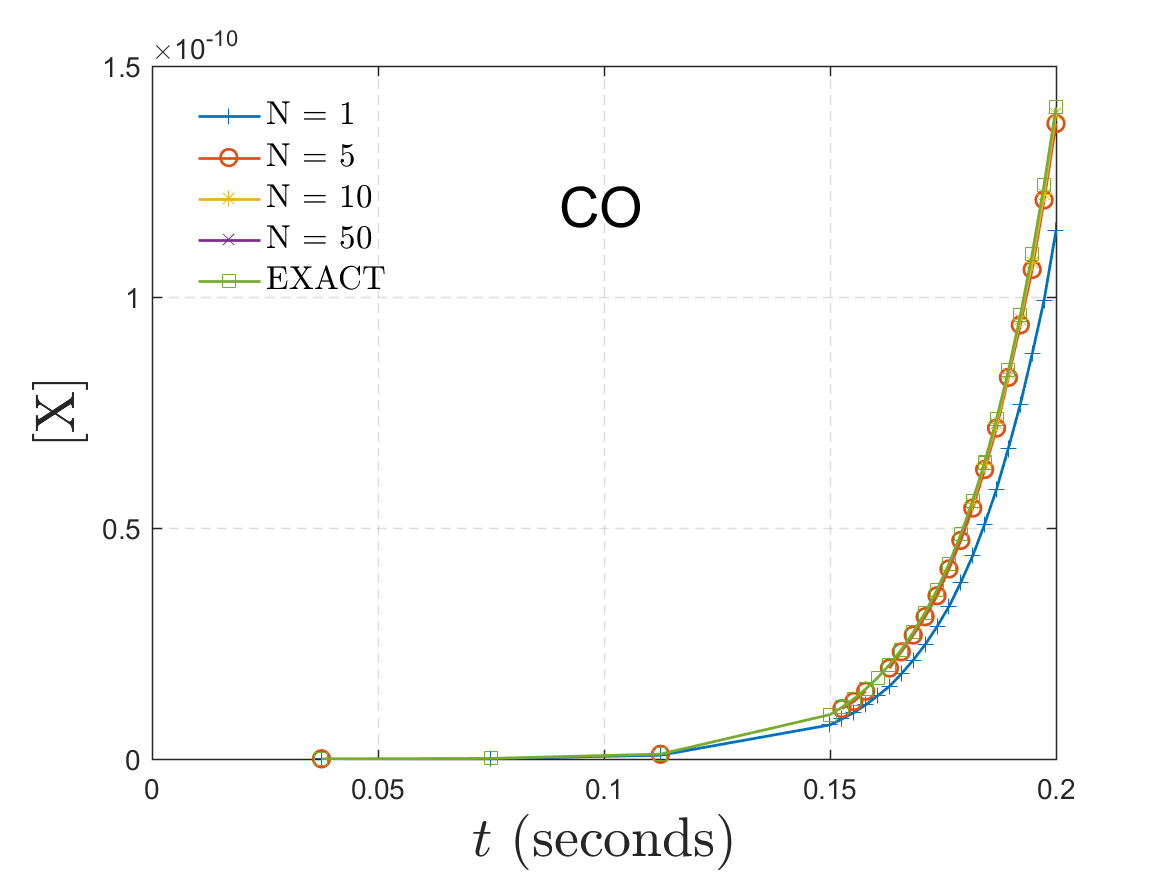
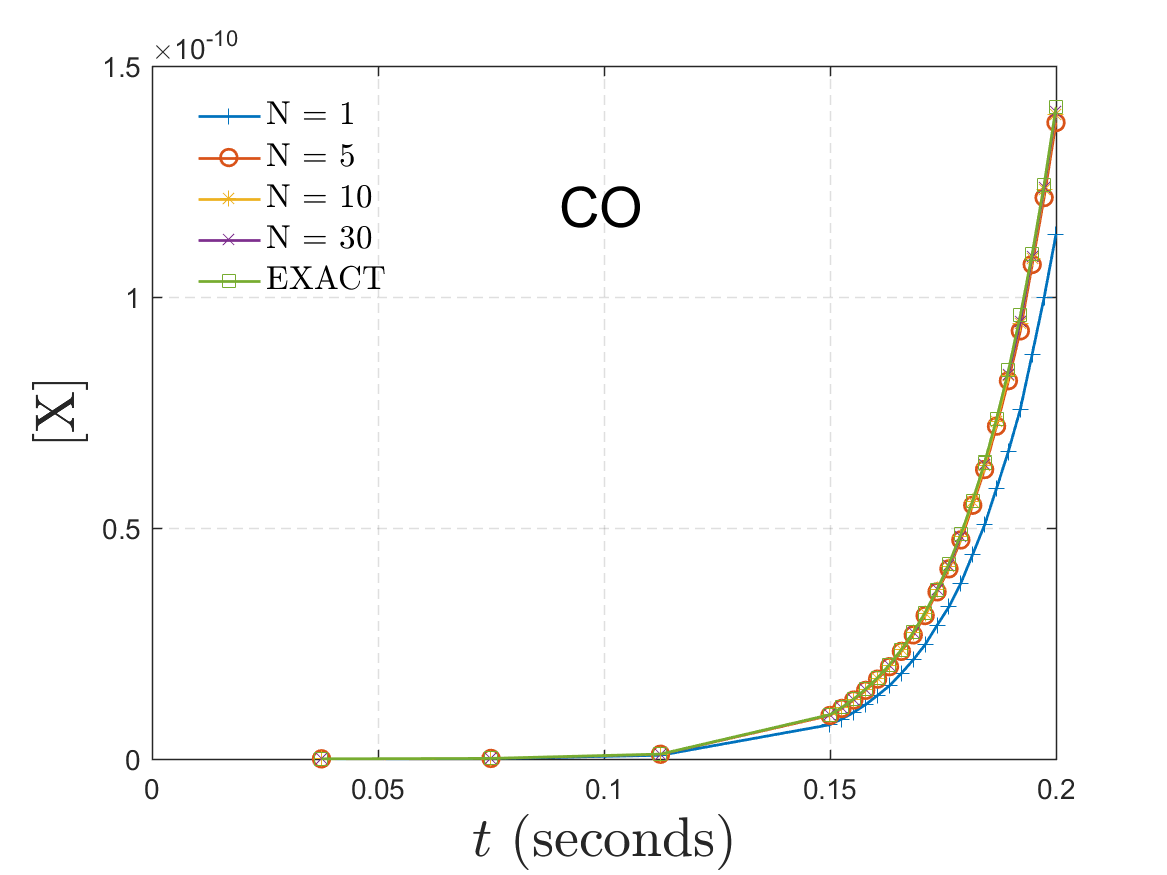
end time vector update

diff --git a/main_driver.py b/main_driver.py
@@ -79,7 +79,7 @@ if __name__ == '__main__':
         species_path=G_S['species_path'],
         begin_t=0.0,
         mc_end_t_threshlod=0.25,
-        end_t_vec=[0.0482215780729, 0.0964431561458, 0.144664734219, 0.192886312292, 0.196270282683, 0.199654253074, 0.203038223465, 0.206422193856, 0.209806164247, 0.213190134638, 0.216574105029, 0.21995807542, 0.223342045811, 0.226726016202, 0.230109986594, 0.233493956985, 0.236877927376, 0.240261897767, 0.243645868158, 0.247029838549, 0.25041380894, 0.253797779331, 0.257181749722])
+        end_t_vec=[0.0107159062384, 0.0214318124768, 0.0321477187152, 0.0428636249537, 0.0535795311921, 0.0642954374305, 0.0750113436689, 0.0857272499073, 0.0964431561457, 0.107159062384, 0.117874968623, 0.128590874861, 0.139306781099, 0.150022687338, 0.160738593576, 0.171454499815, 0.182170406053, 0.192886312291, 0.20360221853, 0.214318124768, 0.225034031007, 0.235749937245, 0.246465843484, 0.257181749722])
 
     # j_b.evaluate_pathway_AT(
     #     SRC_DIR, DATA_DIR, top_n=G_S['top_n_p'], flag="",

diff --git a/theory/misc/trajectory_convergence/DOE_talk_650/CO_primitive_pathway/species_conc_path_prob_convergence_v2.m b/theory/misc/trajectory_convergence/DOE_talk_650/CO_primitive_pathway/species_conc_path_prob_convergence_v2.m
@@ -60,7 +60,7 @@ scc_pp = [dataArray{1:end-1}];
 clearvars f_n_pp delimiter formatSpec fileID dataArray ans;
 
 %% global properties
-idx_vec = [1 5 10 50];
+idx_vec = [1 5 10 30];
 N = length(idx_vec);
 y_label_str = '[X]';
 
